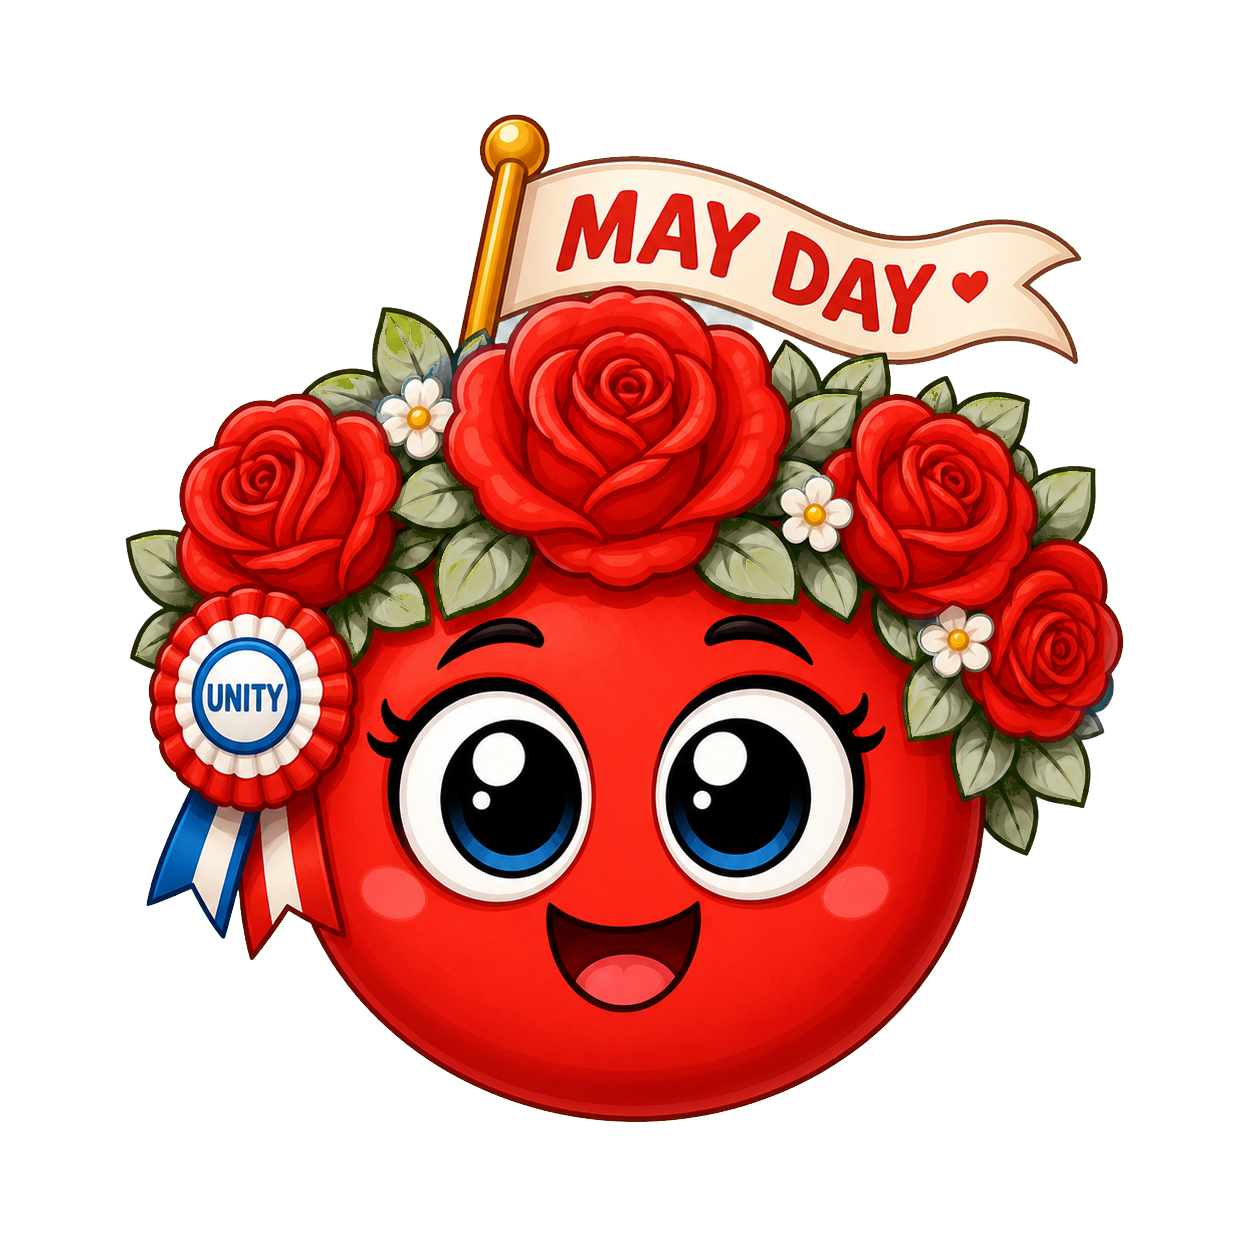
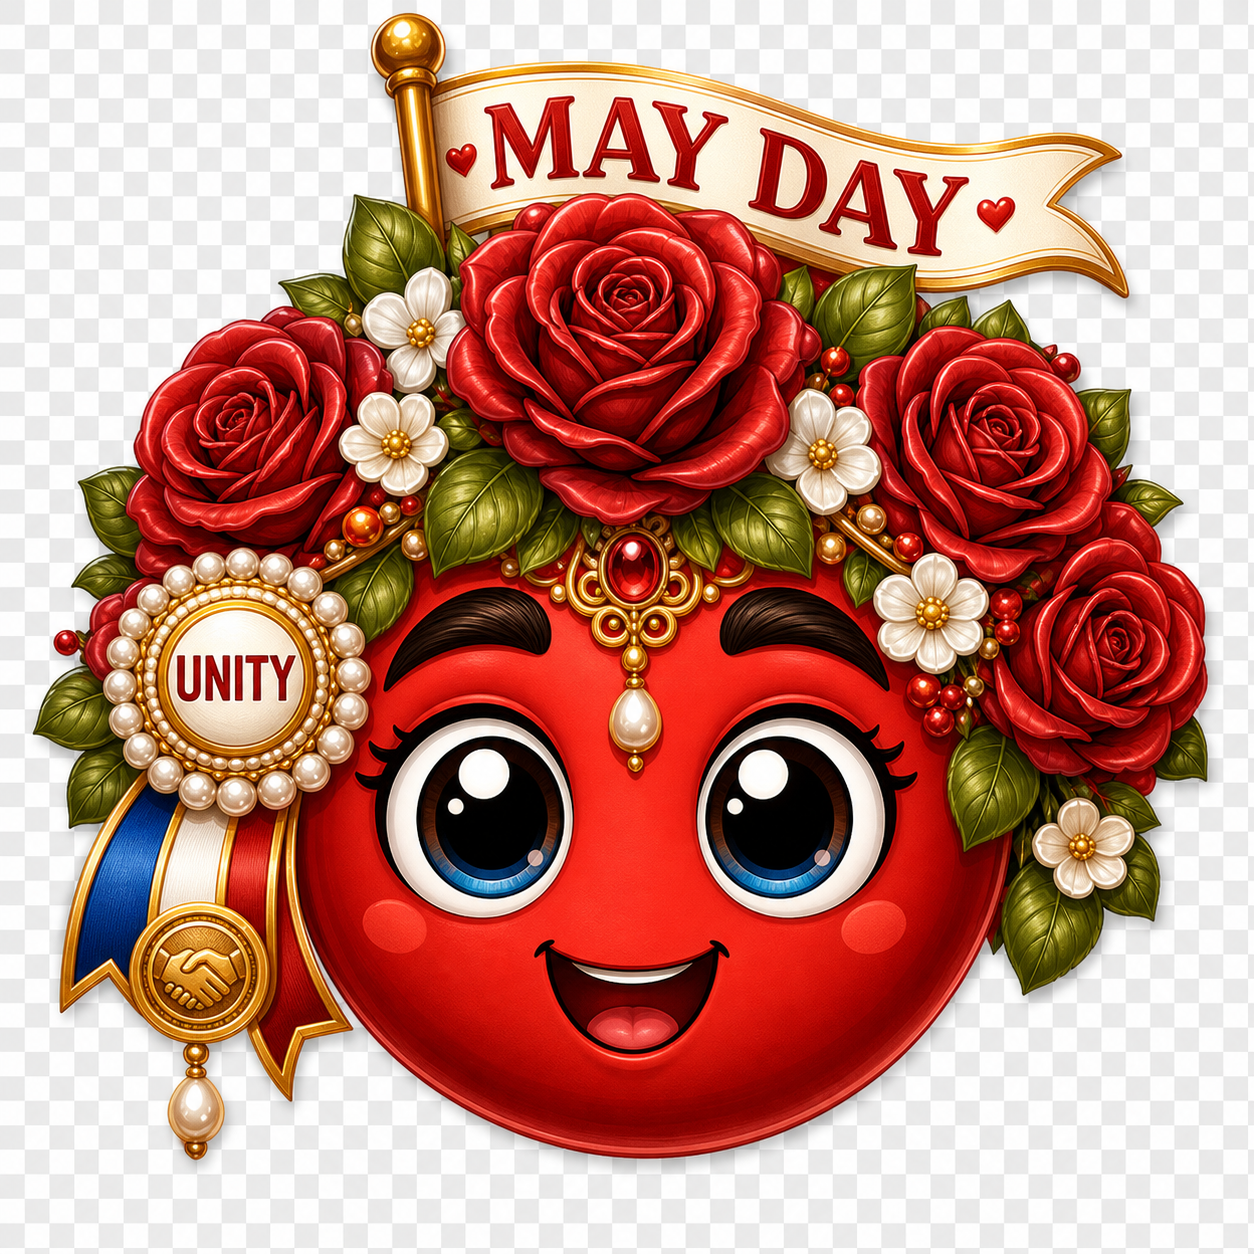
Use premium PNG heads for May Day

diff --git a/src/config/events.ts b/src/config/events.ts
@@ -282,9 +282,9 @@ export const GAME_EVENTS: GameEvent[] = [
     emoji: '🌹',
     currencyImage: '/mayday-coin.png',
     costumes: [
-      { id: 'mayday', label: 'Ouvrière Fleurie', preview: '/heads/mayday-premium.svg?v=2', bodyTexture: '/heads/mayday-body.png' },
-      { id: 'mayday2', label: 'Couronne du Printemps', preview: '/heads/mayday2-premium.svg?v=2', bodyTexture: '/heads/mayday2-body.png' },
-      { id: 'mayday3', label: 'Héraut des Roses', preview: '/heads/mayday3.png', bodyTexture: '/heads/mayday3-body.png' },
+      { id: 'mayday', label: 'Ouvrière Fleurie', preview: '/heads/mayday.png?v=3', bodyTexture: '/heads/mayday-body.png' },
+      { id: 'mayday2', label: 'Couronne du Printemps', preview: '/heads/mayday2.png?v=3', bodyTexture: '/heads/mayday2-body.png' },
+      { id: 'mayday3', label: 'Héraut des Roses', preview: '/heads/mayday3.png?v=3', bodyTexture: '/heads/mayday3-body.png' },
     ],
     unlockKey: 'maydayUnlocked',
     bgImage: '/mayday-bg.png',
